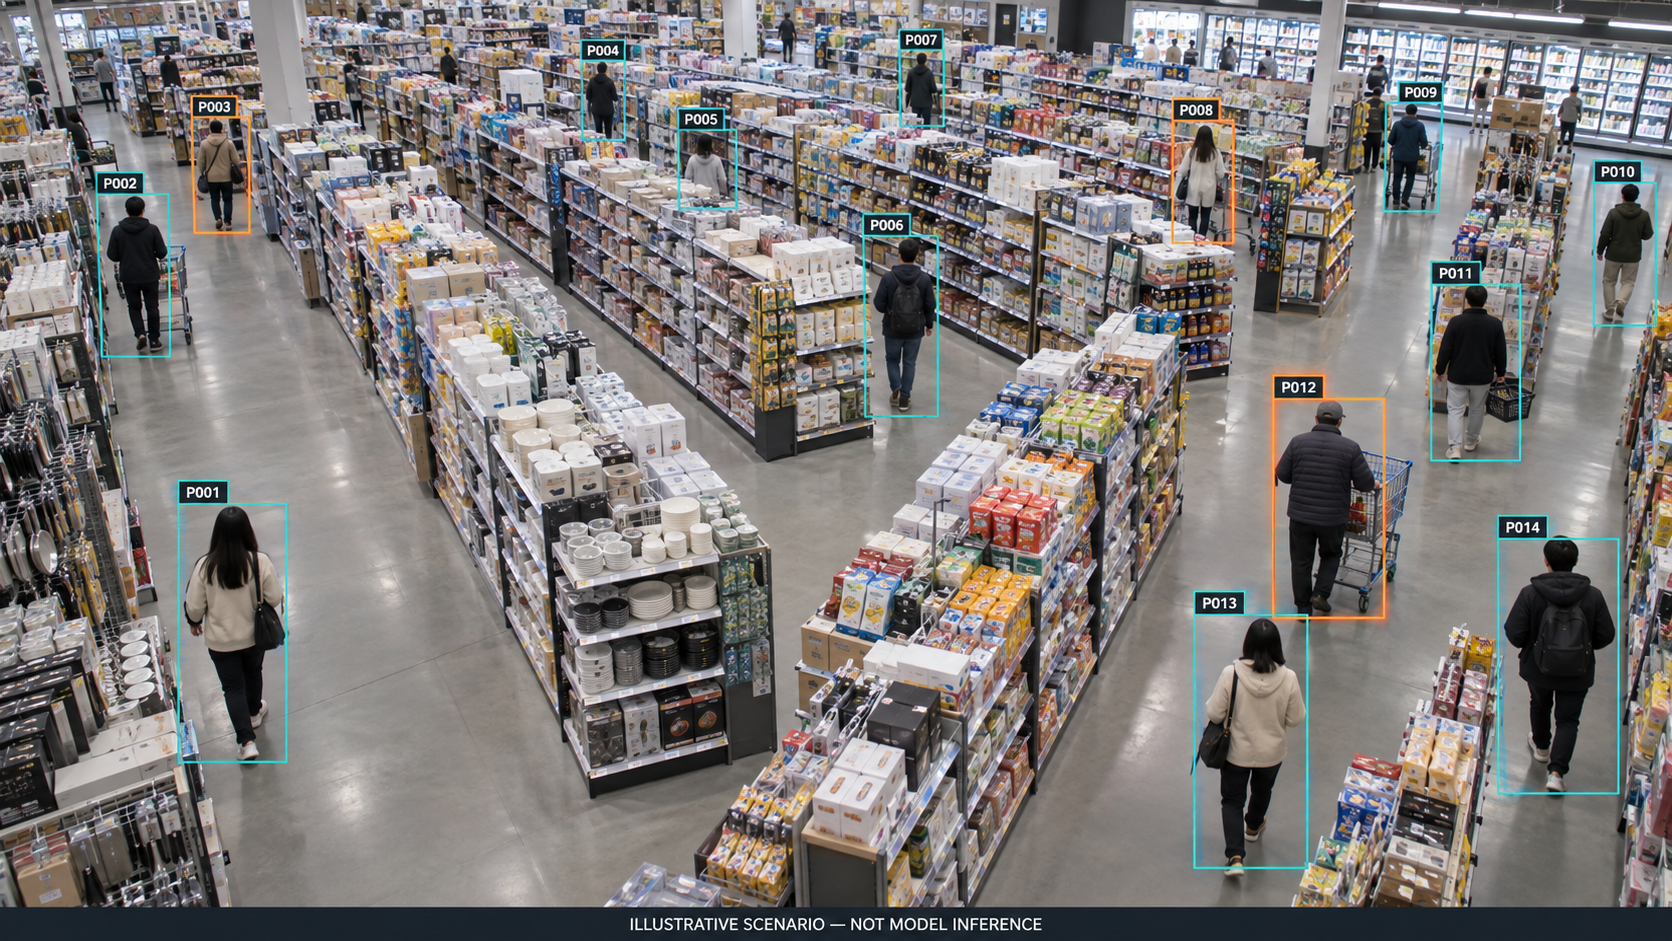
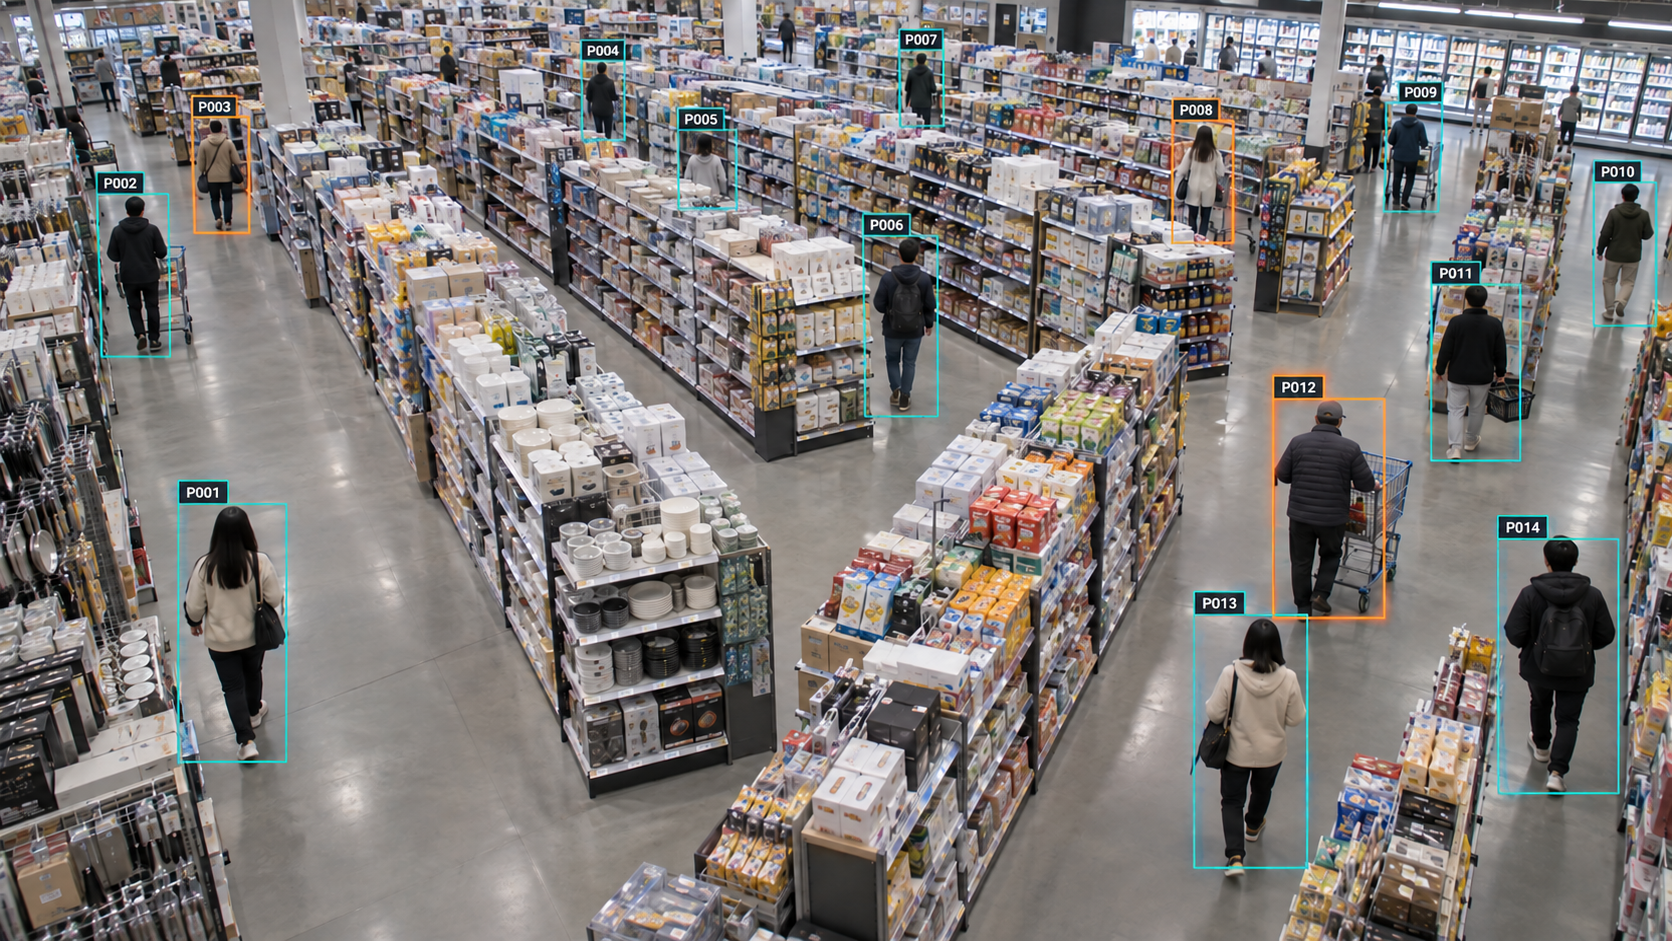
Refresh stylized store visuals and simplify presentation labels

diff --git a/src/Landing.tsx b/src/Landing.tsx
@@ -11,7 +11,7 @@ const steps = [
   { icon: ScanLine, name: 'Temporary tracking', en: 'TRACKING', detail: 'Connect observations into short paths.', body: 'Nearby observation centers are linked with temporary IDs that exist only within the clip. No face or identity recognition is used. Occlusion and crossing paths can fragment IDs.', tag: 'Temporary tracks', output: 'Temporary ID · Position history' },
   { icon: Database, name: 'Observation storage', en: 'COLLECTION', detail: 'Turn every observation into a record.', body: 'Store the timestamp, frame number, track ID, normalized and pixel coordinates, zone, and observed interval in CSV and JSON. Keep the evidence behind the visualization.', tag: 'CSV + JSON', output: 'Traceable observation records' },
   { icon: Move3D, name: 'Floor projection', en: 'PROJECTION', detail: 'Move image positions onto a floor plane.', body: 'Estimate foot positions from bounding-box bottom centers and project them through a manually calibrated perspective transform. Clipped feet and out-of-bounds observations are excluded. These are not surveyed coordinates.', tag: 'Manual calibration', output: 'Floor coordinates · Inclusion records' },
-  { icon: Layers3, name: 'Dwell visualization', en: 'VISUALIZATION', detail: 'See accumulated time as a spatial map.', body: 'Accumulate observed time at projected positions and apply Gaussian smoothing. Shelves form an illustrative 3D reconstruction. Colors show relative observed dwell within the selected interval.', tag: '3D dwell map', output: '3D dwell map · PNG' },
+  { icon: Layers3, name: 'Dwell visualization', en: 'VISUALIZATION', detail: 'See accumulated time as a spatial map.', body: 'Accumulate observed time at projected positions and apply Gaussian smoothing. Shelves form a schematic 3D layout. Colors show relative observed dwell within the selected interval.', tag: '3D dwell map', output: '3D dwell map · PNG' },
 ];
 
 type Observation = { time_seconds: number; track_id: string; bbox: number[]; confidence: number; zone: string; sample_seconds: number };
@@ -62,8 +62,8 @@ export default function Landing() {
           </div>
           <div className="lp-hero-visual">
             <div className="lp-visual-meta"><span><Box size={13}/> A NEW WAY TO SEE YOUR STORE</span><span>3D / DWELL</span></div>
-            <img src={asset('hero-heatmap.png')} alt="Illustrative 3D store concept with color-coded dwell patterns. Not measured data." fetchPriority="high"/>
-            <div className="lp-visual-caption"><span className="lp-concept-pill">CONCEPT VIEW</span><p>Illustrative store concept<br/><strong>Not measured data.</strong></p><div className="lp-mini-legend"><i/><span>Relative dwell</span></div></div>
+            <img src={asset('hero-heatmap.png')} alt="Schematic 3D store layout with color-coded dwell patterns." fetchPriority="high"/>
+            <div className="lp-visual-caption"><span className="lp-concept-pill">3D HEATMAP</span><p>Expanded-store layout<br/><strong>Spatial dwell visualization</strong></p><div className="lp-mini-legend"><i/><span>Relative dwell</span></div></div>
             <div className="lp-hero-float"><CircleDot size={18}/><div><strong>From motion to meaning.</strong><span>Movement, in spatial context.</span></div></div>
           </div>
         </section>
@@ -75,8 +75,8 @@ export default function Landing() {
       <SectionLabel number="01">SEE THE UNSEEN</SectionLabel>
       <div className="lp-section-heading"><h2 id="solution-title">Cameras record.<br/>We keep <em>observable evidence.</em></h2><p>Start with the camera already in the store.<br/>Collect where people are observed and for how long,<br/>using a process that can be inspected and reproduced.</p></div>
       <div className="lp-observation-grid lp-complex-grid">
-        <figure className="lp-camera-card lp-complex-camera"><div className="lp-camera-chrome"><span><ScanLine size={13}/> COMPLEX STORE / SCENARIO</span><span>ILLUSTRATIVE</span></div><img src={asset('bbox-complex.png')} alt="Generated illustration of a crowded store with person bounding boxes. An illustrative scenario, not model inference." loading="lazy"/><figcaption><div><span className="lp-concept-pill">Generated illustration</span><strong>One pipeline, a more complex scene</strong><p>Complex-store scenario · Generated illustration · Not model inference</p></div></figcaption></figure>
-        <figure className="lp-camera-card lp-camera-detection"><div className="lp-camera-chrome"><span><Focus size={12}/> ACTUAL PUBLIC VIDEO</span><div className="lp-camera-switch" role="group" aria-label="Compare source footage and model output"><button aria-pressed={cameraView === 'raw'} onClick={() => setCameraView('raw')}>Raw</button><button aria-pressed={cameraView === 'observed'} onClick={() => setCameraView('observed')}>Model output</button></div></div><img src={asset(cameraView === 'raw' ? 'retail-frame.jpg' : 'retail-bbox.jpg')} alt={cameraView === 'raw' ? 'Source frame from an Intel public video of a real housewares store' : 'Person bounding boxes and temporary track IDs produced by MobileNet-SSD on real public store footage'} loading="lazy"/><figcaption><div><span className="lp-measured-pill">Measured observations</span><strong>{cameraView === 'raw' ? 'A real housewares store, on camera' : 'What the current model observes'}</strong><p>Compare the source and model output at the same timestamp. Intel public footage · CC BY 4.0</p></div></figcaption></figure>
+        <figure className="lp-camera-card lp-complex-camera"><div className="lp-camera-chrome"><span><ScanLine size={13}/> COMPLEX STORE / DETECTION DESIGN</span><span>TRACKING</span></div><img src={asset('bbox-complex.png')} alt="Detection design showing person bounding boxes in a crowded store layout." loading="lazy"/><figcaption><div><span className="lp-concept-pill">Bounding boxes</span><strong>People, positions, paths.</strong><p>A detection layer across crowded aisles.</p></div></figcaption></figure>
+        <figure className="lp-camera-card lp-camera-detection"><div className="lp-camera-chrome"><span><Focus size={12}/> ACTUAL PUBLIC VIDEO</span><div className="lp-camera-switch" role="group" aria-label="Compare source footage and model output"><button aria-pressed={cameraView === 'raw'} onClick={() => setCameraView('raw')}>Raw</button><button aria-pressed={cameraView === 'observed'} onClick={() => setCameraView('observed')}>Model output</button></div></div><img src={asset(cameraView === 'raw' ? 'retail-frame.jpg' : 'retail-bbox.jpg')} alt={cameraView === 'raw' ? 'Source frame from an Intel public video of a real housewares store' : 'Person bounding boxes and temporary track IDs produced by MobileNet-SSD on real public store footage'} loading="lazy"/><figcaption><div><span className="lp-measured-pill">Measured data</span><strong>{cameraView === 'raw' ? 'A real housewares store, on camera' : 'What the current model observes'}</strong><p>Compare the source and model output at the same timestamp. Intel public footage · CC BY 4.0</p></div></figcaption></figure>
       </div>
       <div className="lp-note-row"><span><ShieldCheck size={16}/> Focused on position and time.</span><p>Occlusion can cause missed detections and fragmented IDs. Track counts are not exact visitor counts.</p></div>
     </section>
@@ -92,8 +92,8 @@ export default function Landing() {
     <section id="spatial" className="lp-section lp-wrap lp-spatial" aria-labelledby="spatial-title">
       <SectionLabel number="03">TIME TAKES SHAPE</SectionLabel>
       <div className="lp-section-heading"><h2 id="spatial-title">Time spent,<br/><em>mapped into space.</em></h2><p>Warmer colors mark longer observed dwell.<br/>Explore how those observations relate<br/>to shelves, aisles, and the store layout.</p></div>
-      <div className="lp-spatial-tabs" role="tablist" aria-label="3D dwell visualization examples"><button role="tab" aria-selected={spatialView === 'concept'} onClick={() => setSpatialView('concept')}>Concept store view <span>CONCEPT</span></button><button role="tab" aria-selected={spatialView === 'actual'} onClick={() => setSpatialView('actual')}>Actual observations <span>MEASURED</span></button></div>
-      <figure className={`lp-spatial-figure ${spatialView === 'actual' ? 'is-actual' : ''}`}><div className="lp-spatial-image"><img src={asset(spatialView === 'concept' ? 'hero-heatmap.png' : 'dwell-3d.png')} alt={spatialView === 'concept' ? 'Illustrative 3D dwell concept for a larger store. Not measured data.' : '3D dwell map from 296 real observations projected onto a manually calibrated floor plane'} loading="lazy"/></div><figcaption><div><span className={spatialView === 'concept' ? 'lp-concept-pill' : 'lp-measured-pill'}>{spatialView === 'concept' ? 'Illustrative concept' : 'Measured observations'}</span><h3>{spatialView === 'concept' ? 'The same data flow, across a larger space.' : 'A small real example, with evidence behind it.'}</h3><p>{spatialView === 'concept' ? 'This concept illustrates how a larger store could present dwell across multiple aisles. It is separate from measured results.' : 'Of 372 observations, 296 had usable estimated foot positions. Floor calibration and shelf geometry are manually reconstructed, not surveyed.'}</p></div><a className="lp-text-link" href="#/workspace">Open the 3D workspace <ArrowUpRight size={17}/></a></figcaption></figure>
+      <div className="lp-spatial-tabs" role="tablist" aria-label="3D dwell visualization views"><button role="tab" aria-selected={spatialView === 'concept'} onClick={() => setSpatialView('concept')}>3D store layout <span>LAYOUT</span></button><button role="tab" aria-selected={spatialView === 'actual'} onClick={() => setSpatialView('actual')}>Measured data <span>OBSERVATIONS</span></button></div>
+      <figure className={`lp-spatial-figure ${spatialView === 'actual' ? 'is-actual' : ''}`}><div className="lp-spatial-image"><img src={asset(spatialView === 'concept' ? 'hero-heatmap.png' : 'dwell-3d.png')} alt={spatialView === 'concept' ? 'Schematic 3D dwell view of an expanded store layout.' : '3D dwell map from 296 real observations projected onto a manually calibrated floor plane'} loading="lazy"/></div><figcaption><div><span className={spatialView === 'concept' ? 'lp-concept-pill' : 'lp-measured-pill'}>{spatialView === 'concept' ? '3D layout' : 'Measured data'}</span><h3>{spatialView === 'concept' ? 'The same data flow, across a larger space.' : 'Measured observations, linked to the footage.'}</h3><p>{spatialView === 'concept' ? 'Explore the relationship between aisles, display areas, and relative dwell.' : 'Of 372 observations, 296 had usable estimated foot positions. Floor calibration and shelf geometry are manually reconstructed, not surveyed.'}</p></div><a className="lp-text-link" href="#/workspace">Open the 3D workspace <ArrowUpRight size={17}/></a></figcaption></figure>
       <div className="lp-spatial-foot"><div className="lp-large-legend"><span>Lower relative dwell</span><i/><span>Higher relative dwell</span></div><p>Colors represent relative observed dwell, not temperature, purchase intent, or surveyed crowd density.</p></div>
     </section>
 
